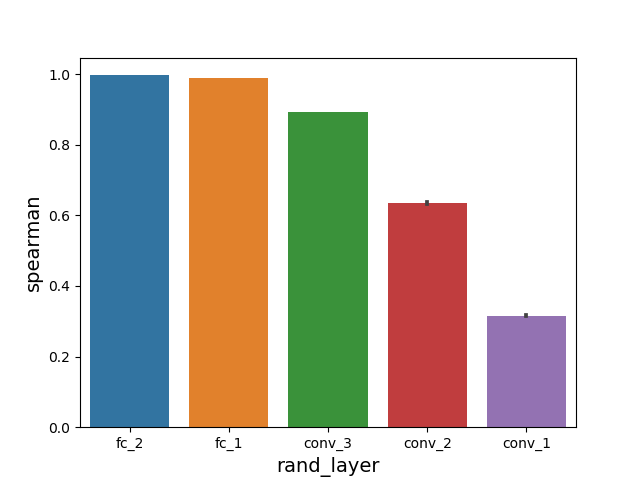
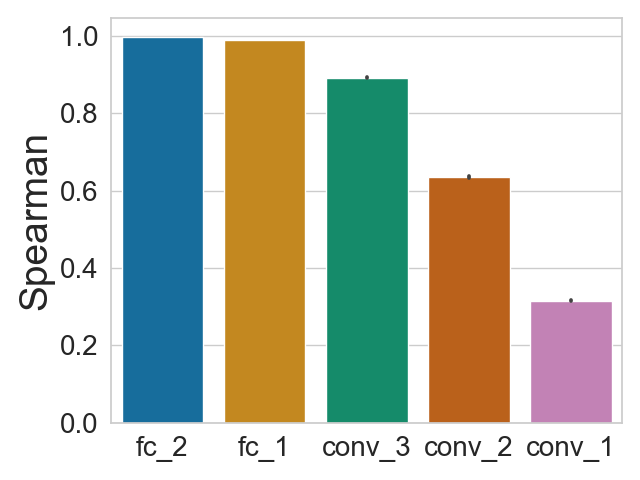
cleaned up sanity checks

diff --git a/sanity_checks/sanity_checks.py b/sanity_checks/sanity_checks.py
@@ -1,3 +1,11 @@
+'''
+This module implements sanity checks for saliency maps.
+To this end the layers in the model are cascadingly randomized and for each step we create a copy of the model.
+Then we create gameplay and saliency map streams for each of those models, using the decisions of the original model,
+ such that all models get the same input states.
+Finally we compare the generated saliency of all models.
+'''
+
 import numpy as np
 import os
 import matplotlib.pyplot as plt
@@ -37,12 +45,17 @@ def init_layer(layer):
     session.run(weights_initializer)
 
 def copy_model(model):
+    '''
+    Copies a keras model including the weights
+    :param model: the model to be copied
+    :return: the new copy of the model
+    '''
     model_m1 = keras.models.clone_model(model)
     model_m1.set_weights(model.get_weights())
     return model_m1
 
 def check_models(model1, model):
-    ''' checks if two models have the same weights, to make sure that a layer was randomized. '''
+    ''' checks if two models have the same weights, to make sure that a layer was randomized.'''
     for i in range(1,7):
         if i != 4:
             print('layer ', i)
@@ -161,7 +174,6 @@ if __name__ == '__main__':
         for _ in range(steps):
             if _ < 4:
                 action = env.action_space.sample()
-                # to have more controll over the fixed starts
             else:
                 my_input = np.expand_dims(stacked_frames, axis=0)
                 output = model.predict(my_input)  #this output corresponds with the output in baseline if --dueling=False is correctly set for baselines.
@@ -269,10 +281,15 @@ if __name__ == '__main__':
     #Create plots
     data_frame['rand_layer'] = data_frame.rand_layer.apply(
         lambda x: 'fc_2' if x == 1 else 'fc_1' if x == 2 else 'conv_3' if x == 3 else 'conv_2' if x == 4 else 'conv_1')
+
+    sns.set(palette='colorblind', style="whitegrid")
+
     ax = sns.barplot(x='rand_layer', y='pearson', data=data_frame)
-    show_and_save_plt(ax, 'pearson')
+    show_and_save_plt(ax, 'pearson',label_size=28, tick_size=20, y_label='Pearson')
     ax = sns.barplot(x='rand_layer', y='ssim', data=data_frame)
-    show_and_save_plt(ax, 'ssim')
+    plt.xlabel(None)
+    show_and_save_plt(ax, 'ssim',label_size=28, tick_size=20, y_label='Ssim')
     ax = sns.barplot(x='rand_layer', y='spearman', data=data_frame)
-    show_and_save_plt(ax, 'spearman')
+    plt.xlabel(None)
+    show_and_save_plt(ax, 'spearman',label_size=28, tick_size=20, y_label='Spearman')
 
